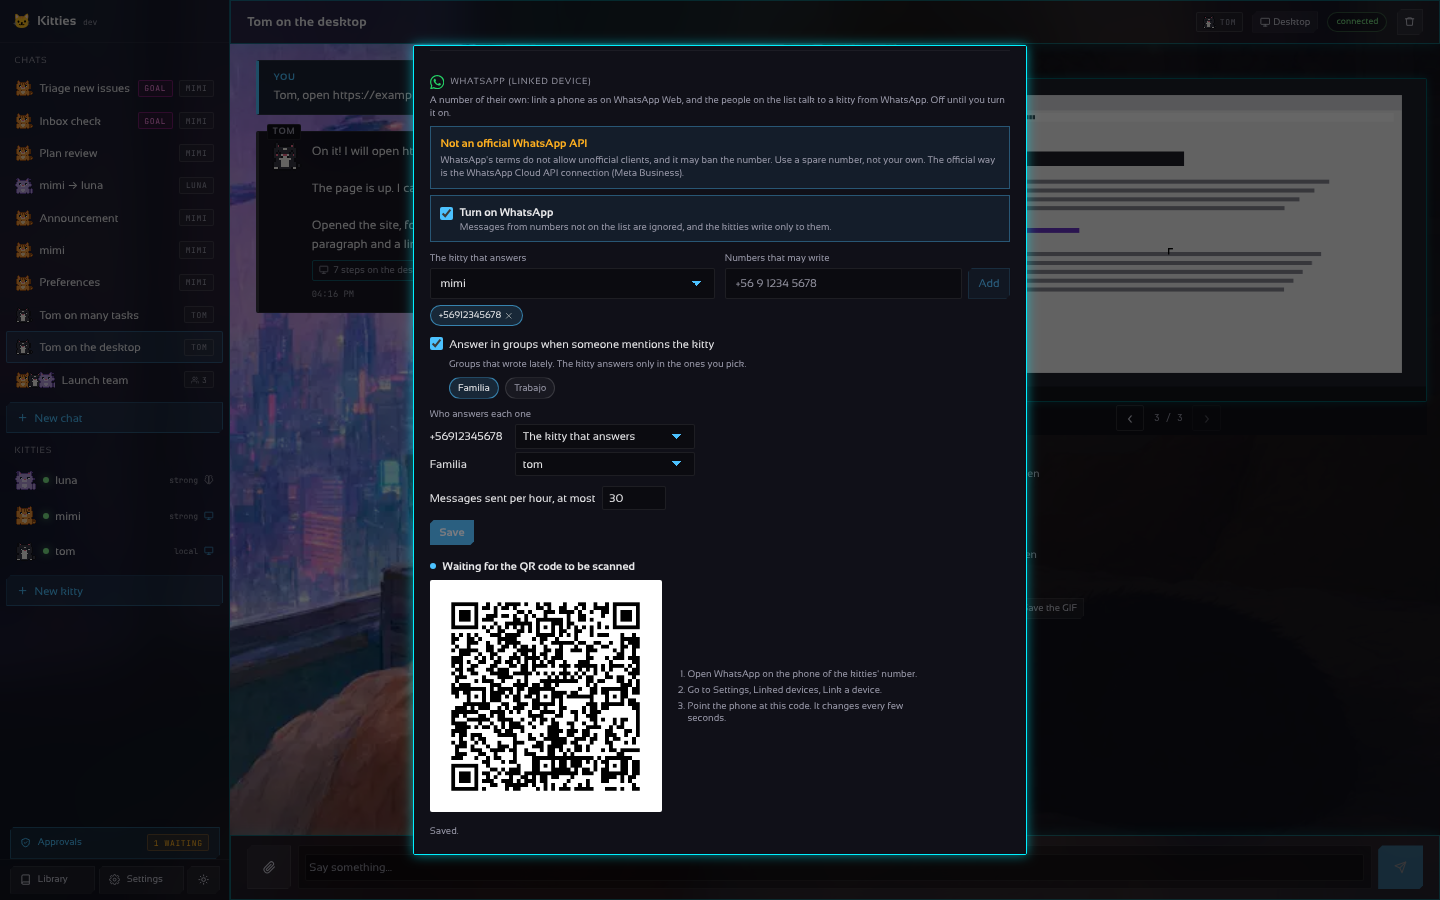
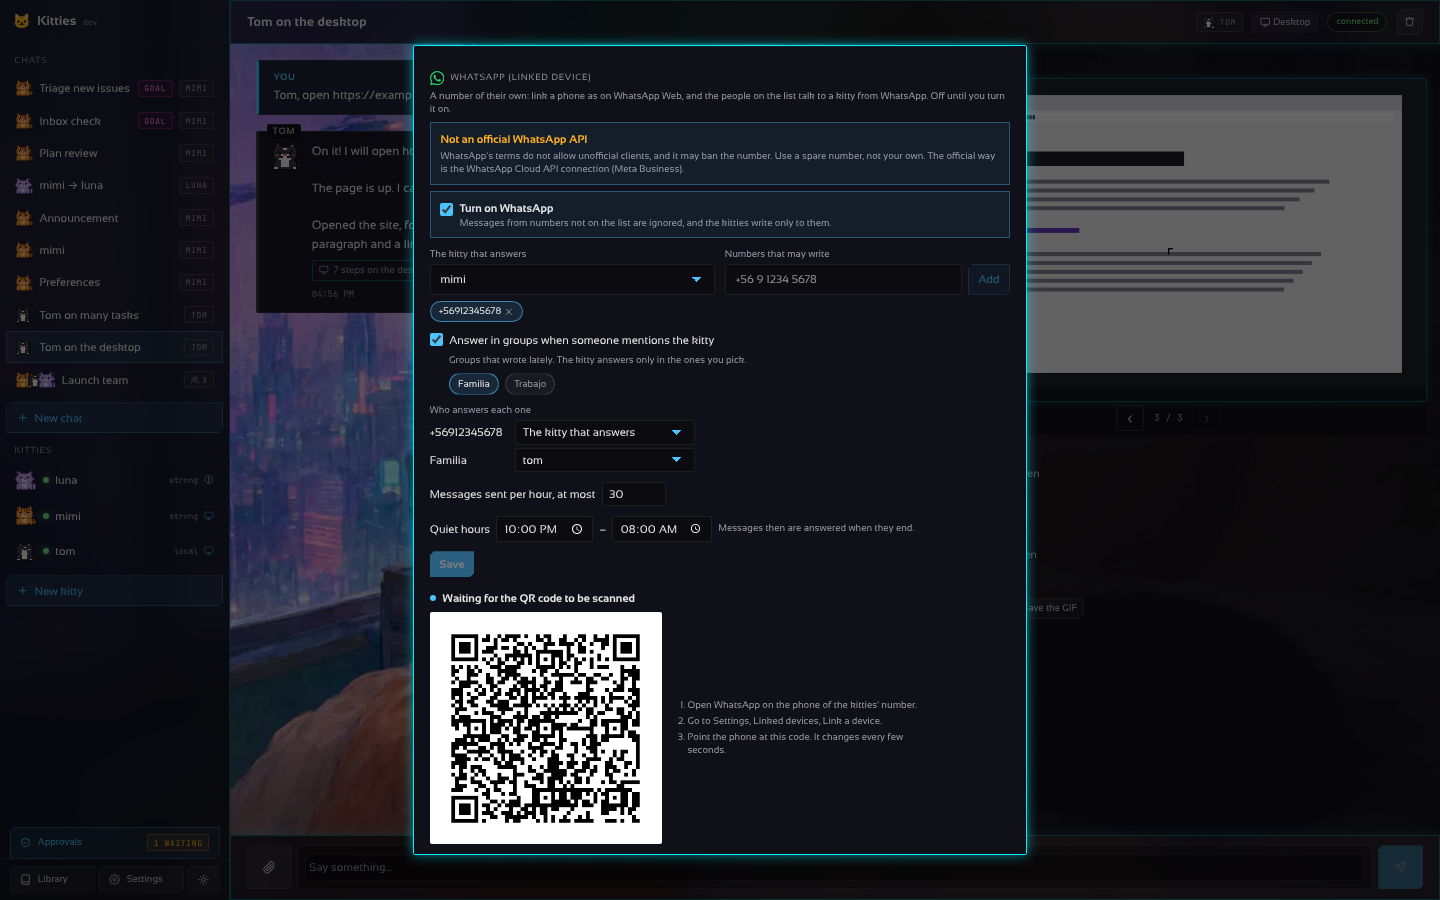
feat(desktop): WhatsApp quiet hours and a reconnect button
Claude-Session: https://claude.ai/code/session_017Z7sUbSYL2DPKWnmDEkcnW

Changed region(s): [[0.2812, 0.0622, 0.6875, 0.9644], [0.5, 0.56, 0.625, 0.5911], [0.4375, 0.56, 0.4688, 0.5911]]

diff --git a/desktop/frontend/src/WhatsApp.tsx b/desktop/frontend/src/WhatsApp.tsx
@@ -25,6 +25,8 @@ function pick(s: WhatsAppStatus): WhatsAppSettings {
     allow_groups: [...(s.allow_groups || [])],
     kitties: { ...(s.kitties || {}) },
     max_per_hour: s.max_per_hour || 0,
+    quiet_from: s.quiet_from || "",
+    quiet_to: s.quiet_to || "",
   };
 }
 
@@ -36,6 +38,8 @@ function same(a: WhatsAppSettings, b: WhatsAppSettings): boolean {
     a.allow_groups.join(",") === b.allow_groups.join(",") &&
     a.allow.join(",") === b.allow.join(",") &&
     (a.max_per_hour || 0) === (b.max_per_hour || 0) &&
+    (a.quiet_from || "") === (b.quiet_from || "") &&
+    (a.quiet_to || "") === (b.quiet_to || "") &&
     pairs(a.kitties) === pairs(b.kitties)
   );
 }
@@ -75,17 +79,21 @@ export default function WhatsAppLink({ kitties }: { kitties: Kitty[] }) {
       // A gateway without it (an older one) shows nothing.
       .catch(() => setCur(null));
   }, []);
-  // While it links or reconnects, the code and the state change by themselves.
+  // While it links or reconnects, the code and the state change by themselves; once connected
+  // the page still looks now and then, to see a dropped connection.
   useEffect(() => {
-    if (!cur || !cur.enabled || !MOVING.includes(cur.state)) {
+    if (!cur || !cur.enabled || !(MOVING.includes(cur.state) || cur.state === "connected")) {
       return;
     }
-    const id = setInterval(() => {
-      api
-        .whatsapp()
-        .then((s) => take(s, true))
-        .catch(() => {});
-    }, 2000);
+    const id = setInterval(
+      () => {
+        api
+          .whatsapp()
+          .then((s) => take(s, true))
+          .catch(() => {});
+      },
+      cur.state === "connected" ? 15000 : 2000,
+    );
     return () => clearInterval(id);
   }, [cur?.state, cur?.enabled, cur?.qr]);
   if (!cur || !want) {
@@ -302,6 +310,29 @@ export default function WhatsAppLink({ kitties }: { kitties: Kitty[] }) {
           }
         />
       </label>
+      <div class="flex flex-wrap items-center gap-2 mt-3 text-sm" data-testid="whatsapp-quiet">
+        {t("Quiet hours")}
+        <input
+          type="time"
+          class="px-2 py-1 text-sm"
+          value={want.quiet_from || ""}
+          disabled={disabled}
+          onInput={(e) => setWant({ ...want, quiet_from: (e.target as HTMLInputElement).value })}
+          aria-label={t("Quiet hours start")}
+        />
+        –
+        <input
+          type="time"
+          class="px-2 py-1 text-sm"
+          value={want.quiet_to || ""}
+          disabled={disabled}
+          onInput={(e) => setWant({ ...want, quiet_to: (e.target as HTMLInputElement).value })}
+          aria-label={t("Quiet hours end")}
+        />
+        <span class="text-xs text-[var(--t3)]">
+          {t("Messages then are answered when they end.")}
+        </span>
+      </div>
       {turningOn && changed && (
         <label class="flex items-center gap-2 mt-3 text-sm cursor-pointer">
           <input
@@ -362,7 +393,18 @@ export default function WhatsAppLink({ kitties }: { kitties: Kitty[] }) {
             </p>
           )}
           <div class="flex flex-wrap gap-2 mt-2">
-            {["qr_expired", "logged_out", "error"].includes(cur.state) && (
+            {cur.linked && ["disconnected", "error"].includes(cur.state) && (
+              <button
+                class="btn-outline px-3 py-1.5 text-sm"
+                disabled={busy}
+                onClick={() => run(() => api.reconnectWhatsApp())}
+                data-testid="whatsapp-reconnect"
+              >
+                {t("Reconnect")}
+              </button>
+            )}
+            {(["qr_expired", "logged_out"].includes(cur.state) ||
+              (cur.state === "error" && !cur.linked)) && (
               <button
                 class="btn-outline px-3 py-1.5 text-sm"
                 disabled={busy}
@@ -419,6 +461,12 @@ export default function WhatsAppLink({ kitties }: { kitties: Kitty[] }) {
                 t("{n} messages sent in the last hour.", {
                   n: cur.sent_last_hour || 0,
                 })}
+              {cur.quiet &&
+                " " +
+                  t("Quiet hours until {until}: {n} messages wait.", {
+                    until: cur.quiet_to || "",
+                    n: cur.waiting || 0,
+                  })}
               {(cur.held || 0) > 0 &&
                 " " + t("{n} were held by the hourly limit.", { n: cur.held || 0 })}
             </p>

diff --git a/desktop/frontend/e2e/screens.spec.ts b/desktop/frontend/e2e/screens.spec.ts
@@ -2005,6 +2005,8 @@ test("Settings: WhatsApp links with a QR code, asks for the risk and keeps the l
   await expect(box.getByTestId("whatsapp-who")).toContainText("Familia");
   await box.getByTestId("whatsapp-who-kitty").nth(1).selectOption(ids.tom);
   await box.getByTestId("whatsapp-limit").locator("input").fill("30");
+  await box.getByLabel("Quiet hours start").fill("22:00");
+  await box.getByLabel("Quiet hours end").fill("08:00");
   // Turning it on waits for the risk to be accepted.
   await box.getByTestId("whatsapp-enabled").click();
   await expect(box.getByTestId("whatsapp-save")).toBeDisabled();
@@ -2021,6 +2023,8 @@ test("Settings: WhatsApp links with a QR code, asks for the risk and keeps the l
       allow_groups: ["120363012345678901@g.us"],
       kitties: { "120363012345678901@g.us": ids.tom },
       max_per_hour: 30,
+      quiet_from: "22:00",
+      quiet_to: "08:00",
       accept_risk: true,
     },
   ]);
@@ -2044,6 +2048,18 @@ test("Settings: WhatsApp links with a QR code, asks for the risk and keeps the l
   await expect(box.getByTestId("whatsapp-note")).toContainText("Sent");
   expect(tests).toEqual([{ to: "56912345678" }]);
   await expect(box.getByTestId("whatsapp-unlink")).toBeVisible();
+  // The connection drops: it reconnects with the kept session, without a new code.
+  const reconnects: string[] = [];
+  await page.route("**/v1/whatsapp/reconnect", (route) => {
+    reconnects.push(route.request().method());
+    wa = { ...wa, state: "starting" };
+    return route.fulfill({ json: wa });
+  });
+  wa = { ...wa, state: "disconnected" };
+  await expect(box.getByTestId("whatsapp-reconnect")).toBeVisible({ timeout: 20_000 });
+  await expect(box.getByTestId("whatsapp-relink")).toHaveCount(0);
+  await box.getByTestId("whatsapp-reconnect").click();
+  expect(reconnects).toEqual(["POST"]);
 });
 
 test("Settings: the MCP clients can be revoked and the token is read only on request", async ({

diff --git a/desktop/frontend/src/api.ts b/desktop/frontend/src/api.ts
@@ -771,6 +771,7 @@ export const api = {
   setWhatsApp: (s: WhatsAppSettings, acceptRisk = false) =>
     request<WhatsAppStatus>("PUT", "/v1/whatsapp", { ...s, accept_risk: acceptRisk }),
   linkWhatsApp: () => request<WhatsAppStatus>("POST", "/v1/whatsapp/link"),
+  reconnectWhatsApp: () => request<WhatsAppStatus>("POST", "/v1/whatsapp/reconnect"),
   unlinkWhatsApp: () => request<WhatsAppStatus>("POST", "/v1/whatsapp/unlink"),
   testWhatsApp: (to: string) =>
     request<{ ok: boolean; error?: string }>("POST", "/v1/whatsapp/test", { to }),
@@ -1208,6 +1209,9 @@ export type WhatsAppSettings = {
   kitties?: Record<string, string>;
   // max_per_hour is the most messages sent in an hour (0: 60).
   max_per_hour?: number;
+  // quiet_from and quiet_to ("22:00", "08:00") are the quiet hours; empty: none.
+  quiet_from?: string;
+  quiet_to?: string;
 };
 
 // WhatsAppGroup is a group that wrote lately, to put on the list.
@@ -1235,6 +1239,8 @@ export type WhatsAppStatus = WhatsAppSettings & {
   seen_groups?: WhatsAppGroup[];
   sent_last_hour?: number;
   held?: number;
+  quiet?: boolean;
+  waiting?: number;
   can_change: boolean;
   why?: string;
 };

diff --git a/desktop/frontend/src/i18n/pt/settings.ts b/desktop/frontend/src/i18n/pt/settings.ts
@@ -337,6 +337,14 @@ const dict: Dictionary = {
   "{n} messages sent in the last hour.": "{n} mensagens enviadas na última hora.",
   "{n} were held by the hourly limit.": "{n} ficaram retidas pelo limite por hora.",
   "Who answers each one": "Quem responde a cada um",
+  "Quiet hours": "Horário de silêncio",
+  to: "às",
+  "Quiet hours start": "Início do silêncio",
+  "Quiet hours end": "Fim do silêncio",
+  "Messages then are answered when they end.":
+    "As mensagens desse período são respondidas ao terminar.",
+  Reconnect: "Reconectar",
+  "Quiet hours until {until}: {n} messages wait.": "Silêncio até {until}: {n} mensagens esperam.",
   "Remove {number}": "Remover {number}",
   "I understand that WhatsApp may ban this number": "Entendo que o WhatsApp pode banir este número",
   "QR code to link WhatsApp": "Código QR para conectar o WhatsApp",

diff --git a/desktop/frontend/src/i18n/es/settings.ts b/desktop/frontend/src/i18n/es/settings.ts
@@ -337,6 +337,14 @@ const dict: Dictionary = {
   "{n} messages sent in the last hour.": "{n} mensajes enviados en la última hora.",
   "{n} were held by the hourly limit.": "{n} quedaron retenidos por el límite por hora.",
   "Who answers each one": "Quién responde a cada uno",
+  "Quiet hours": "Horario de silencio",
+  to: "a",
+  "Quiet hours start": "Inicio del silencio",
+  "Quiet hours end": "Fin del silencio",
+  "Messages then are answered when they end.": "Los mensajes de ese rato se responden al terminar.",
+  Reconnect: "Reconectar",
+  "Quiet hours until {until}: {n} messages wait.":
+    "Silencio hasta las {until}: {n} mensajes esperan.",
   "Remove {number}": "Quitar {number}",
   "I understand that WhatsApp may ban this number":
     "Entiendo que WhatsApp puede bloquear este número",
